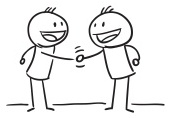
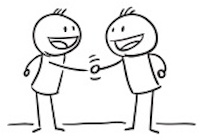
Added images to quienes somos and hover effect

diff --git a/index.html b/index.html
@@ -76,7 +76,7 @@
     <div class="row">
       <a href="./media.html">
         <div id="one" class="col-sm-4">
-          <img id="medios" src="./static/img/medios.jpg" alt="comunicación y medios" />
+          <span></span>
           <h2>Comunicación y medios</h2>
           <p>Mantenemos un registro de nuestra presencia en los medios, web y blogs, así como del interés que los partidos políticos, asociaciones y actores sociales han mostrado por nuestro problema.<br>
     Encuentra aquí la ultima información de este colectivo para tu medio de comunicación.</p>
@@ -85,14 +85,14 @@
 
       <a href="./legal.html">
         <div id="two" class="col-sm-4">
-          <img id="legal" src="./static/img/legal.jpg" alt="ayuda legal" />
+          <span></span>
           <h2>Afectados y ayuda legal</h2>
           <p>Entre el 13/06/2013 y el final del año 2018 decenas de miles de trabajadores pueden pasar por este proceso. Encuentra aquí ayuda legal para comprender tu situación y la forma en que te afecta. Comparte las experiencias de quien va por delante en este proceso.</p>
         </div>
       </a>
 
       <div id="three" class="col-sm-4">
-        <img id="grupos-de-trabajo" src="./static/img/grupos.jpg" alt="grupos de trabajo" />
+        <span></span>
         <h2>Grupos de Trabajo</h2>
   <p>El colectivo de afectados pretendemos sacar el máximo partido de los recursos profesionales que los afectados han desarrollado durante más de 30 años de trabajo para ponerlos al servicio de la defensa de sus derechos. Conoce qué estamos haciendo y en qué puedes ayudarnos.</p>
       </div>

diff --git a/static/css/global.css b/static/css/global.css
@@ -116,12 +116,42 @@ header.secondary-header {
     margin: 0 auto;
   }
   #frontpage-headings #two:hover h2,
-  #frontpage-headings #two:hover p,
   #frontpage-headings #three:hover h2,
-  #frontpage-headings #three:hover p,
-  #frontpage-headings #one:hover h2,
-  #frontpage-headings #one:hover p {
-    color: #AE212E;
+  #frontpage-headings #one:hover h2 {
+    color: #AB3E5B;
+  }
+
+  #frontpage-headings #one span {
+    display: block;
+    width: 140px;
+    height: 140px;
+    background: url('../img/medios.jpg');
+    margin: 0 auto;
+  }
+  #frontpage-headings #one:hover span {
+    background: url('../img/medios.png');
+  }
+
+  #frontpage-headings #two span {
+    display: block;
+    width: 124px;
+    height: 140px;
+    background: url('../img/legal.jpg');
+    margin: 0 auto;
+  }
+  #frontpage-headings #two:hover span {
+    background: url('../img/legal.png');
+  }
+
+  #frontpage-headings #three span {
+    display: block;
+    width: 208px;
+    height: 140px;
+    background: url('../img/grupos.jpg');
+    margin: 0 auto;
+  }
+  #frontpage-headings #three:hover span {
+    background: url('../img/grupos.png');
   }
 
 /* DOCUMENTS */
@@ -205,14 +235,18 @@ header.secondary-header {
 /* WHO WE ARE */
 #who-we-are {
   font-size: 17px;
-  padding-top: 10px;
+  padding-top: 30px;
   font-family: "Varela Round", Helvetica, Arial, sans-serif;
   color: #666;
 }
 #who-we-are p {
   text-indent: 10px;
 }
-
+#who-we-are img {
+  width: 1000px;
+  margin-left: 350px;
+  margin-top: -20px;
+}
 
 /* MEDIA */
 #media {

diff --git a/quienes-somos.html b/quienes-somos.html
@@ -78,6 +78,8 @@
   Amparados por la disposición transitoria de la nueva ley de jubilación pretendemos jubilarnos a los 61 años en la forma y con los criterios con los que el INSS ha venido concediendo este modo de jubilación hasta que en Junio de este año decidió, sin cambios legales que lo justifiquen, hacer lo contrario de lo que venía haciendo.
       </p>
     </div>
+
+    <img src="./static/img/somos.png" />
   </div>
 
 
